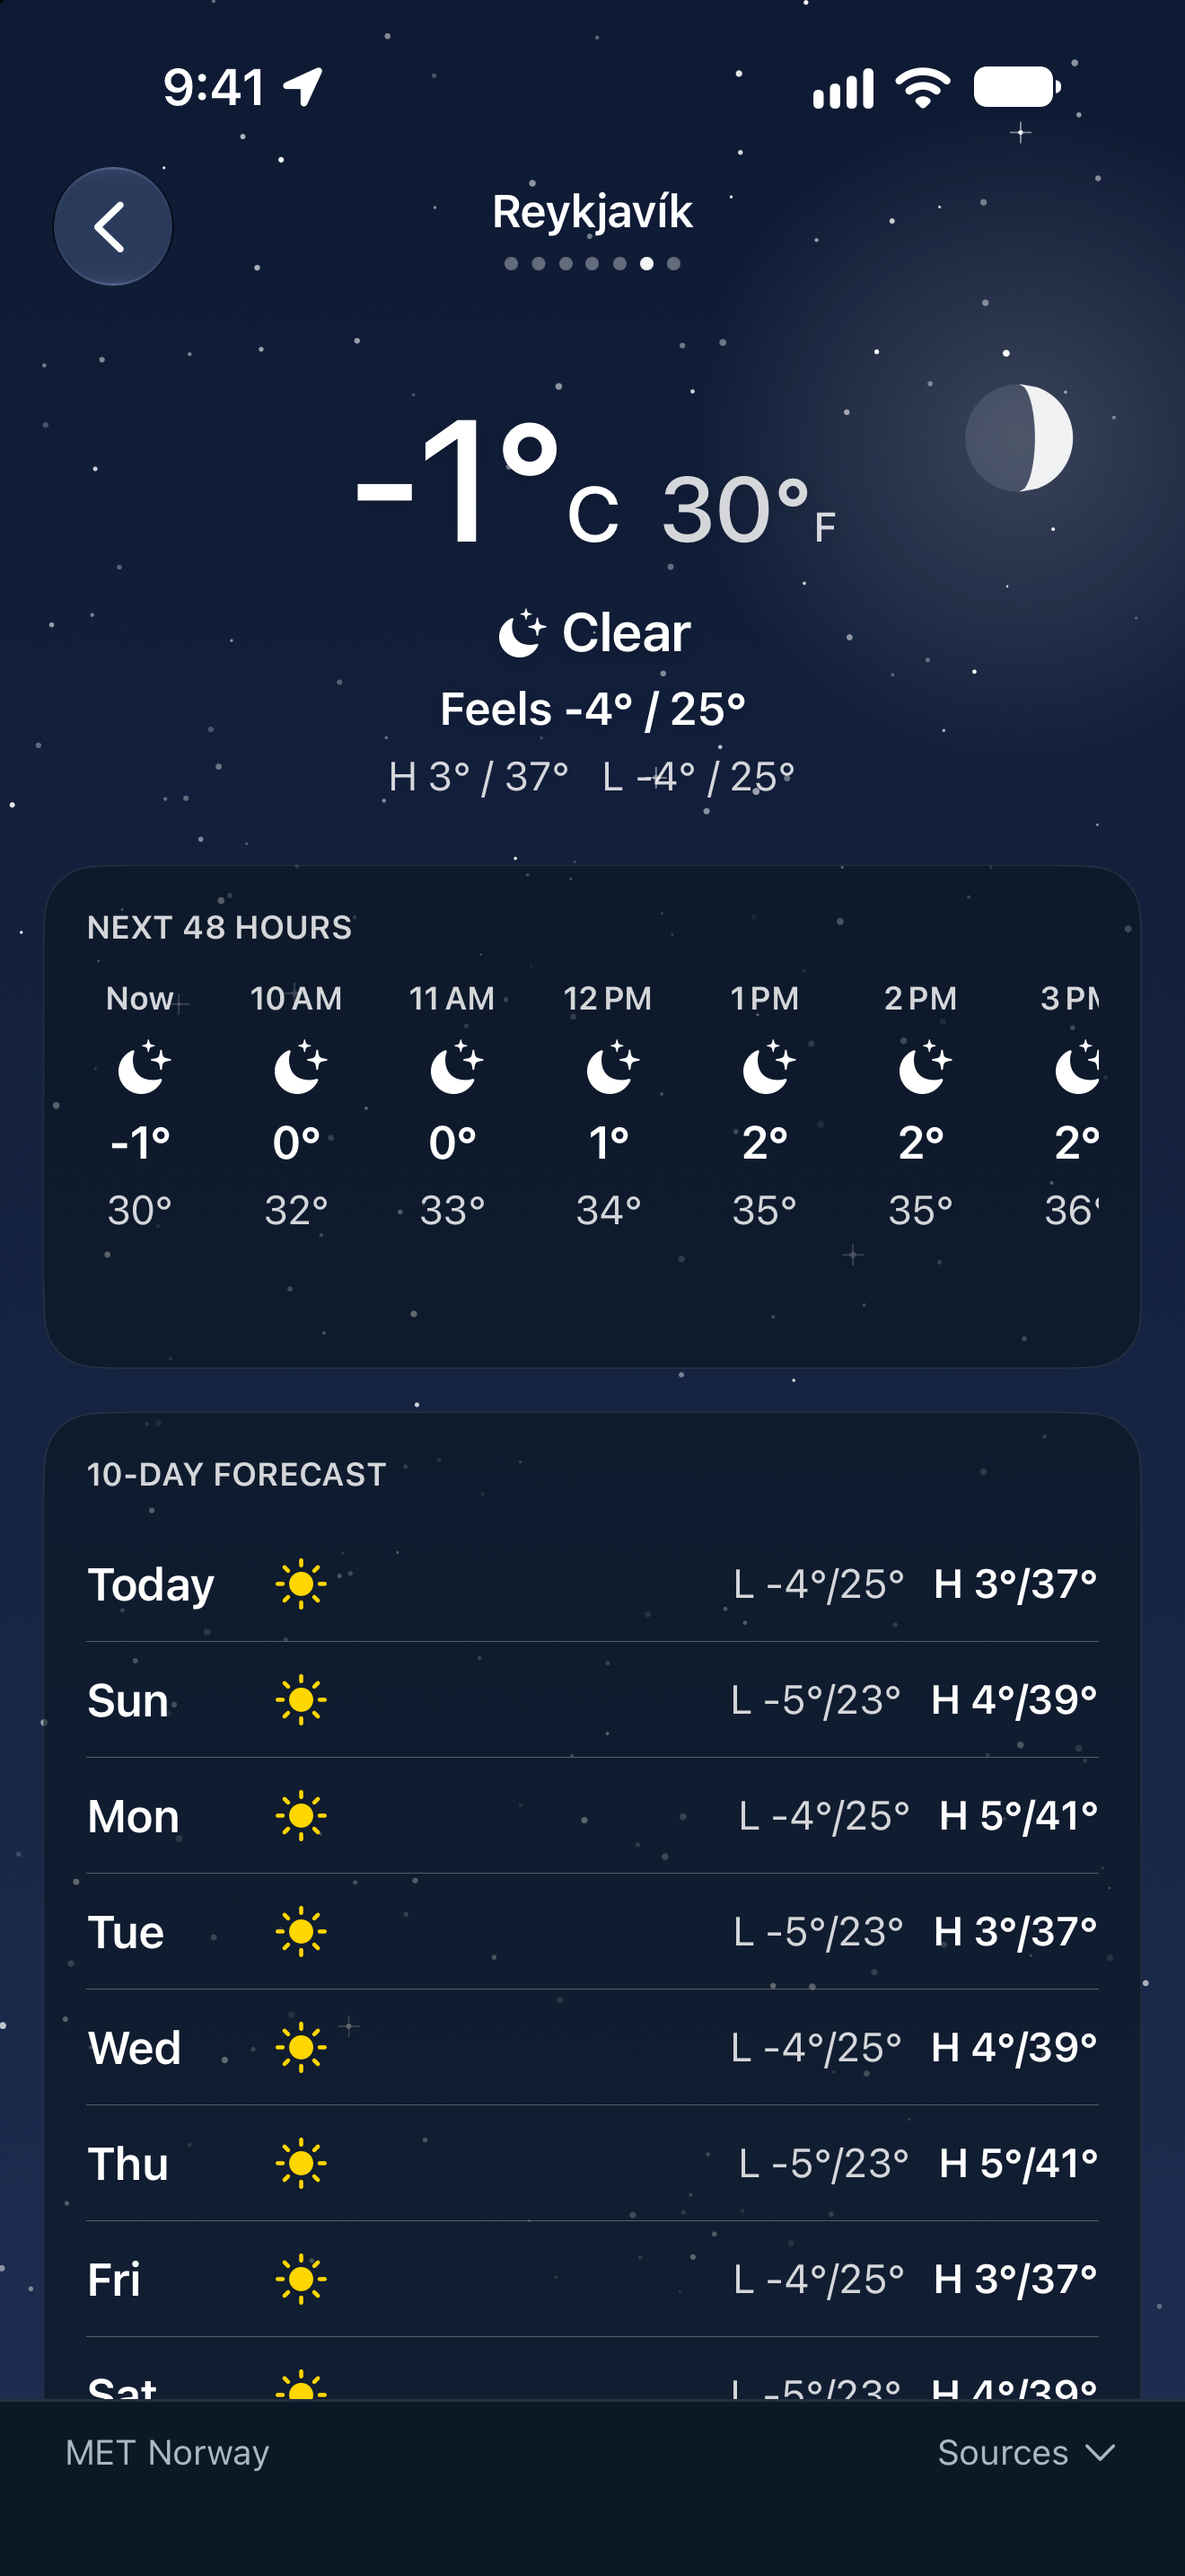
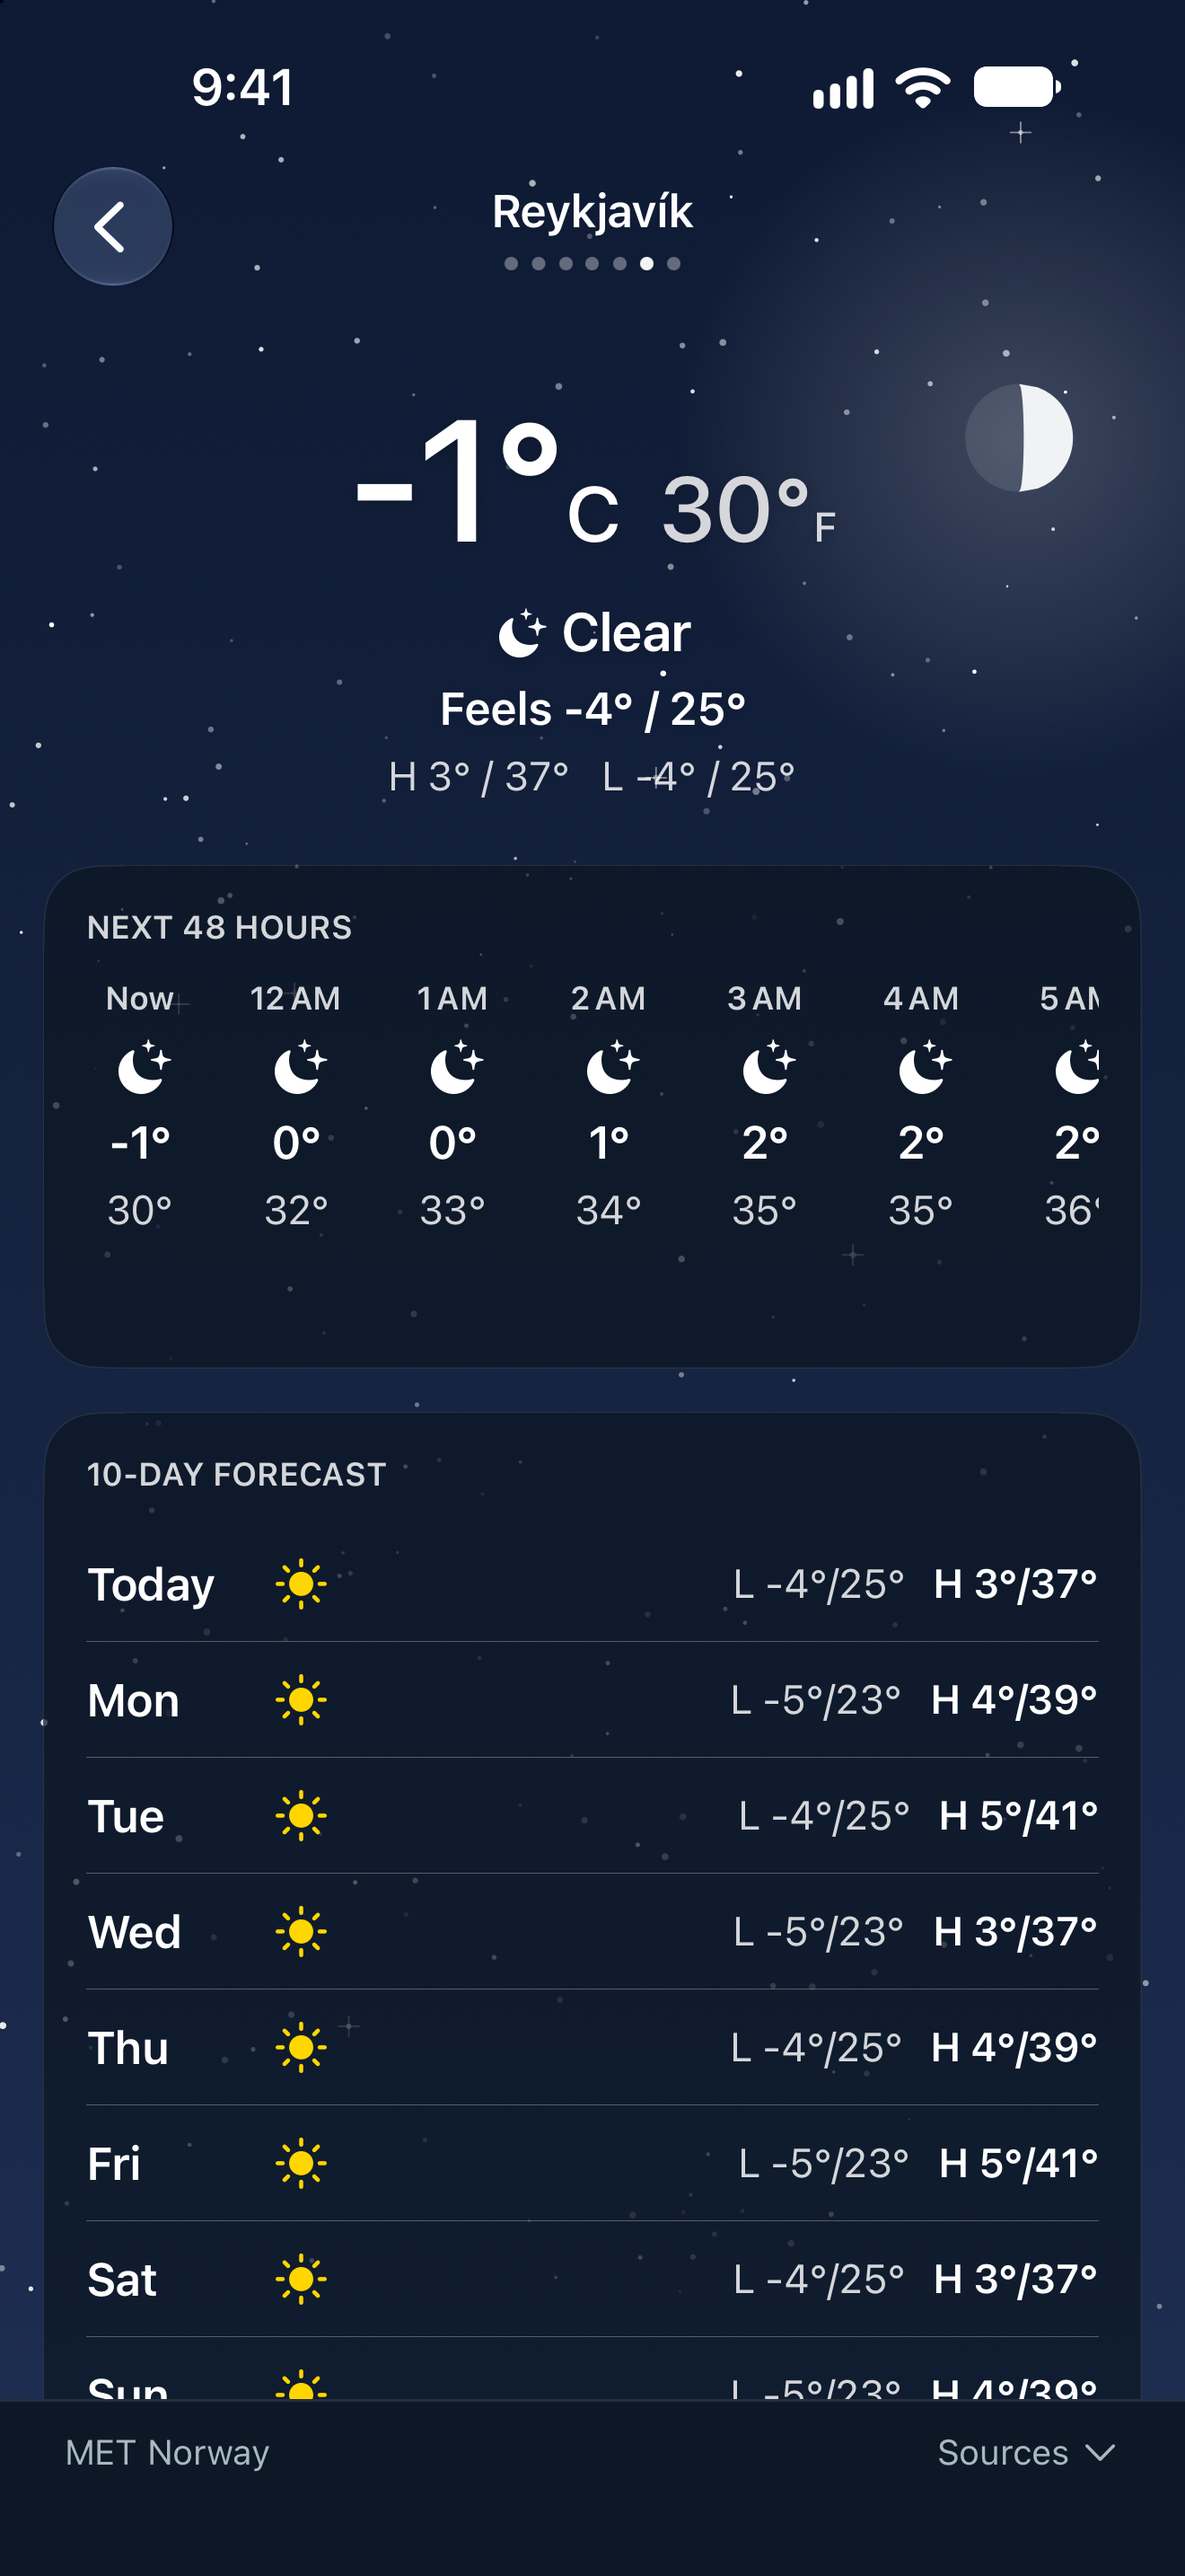
Retake the App Store screenshots (#5)
* Retake the App Store screenshots from the current build

Sun and moon no longer drawn together, the nights list on the northern lights card,
and the Edit button on the list. 6.9" (1320x2868), 9:41 with full signal and battery.

* Retake the screenshots with the hourly fix and no Dynamic Island

Captured with --mask=ignored, which keeps the island out of every shot; noted in CLAUDE.md.

---------

diff --git a/CLAUDE.md b/CLAUDE.md
@@ -5,7 +5,7 @@
 - WeatherKit, the App Group and widget location only work in a signed build on a device.
 - To install on a simulator, build without `CODE_SIGNING_ALLOWED=NO`: an unsigned build has no App Group entitlement, so the widget renders blank.
 - Proxy (`proxy/`, a Cloudflare Worker at api.trough.dev for MET and the aurora Kp files): `node --test proxy/test/proxy.test.mjs`. Merging to main deploys it via `.github/workflows/proxy.yml` (repo secret `CLOUDFLARE_API_TOKEN`, variable `CLOUDFLARE_ACCOUNT_ID`). Plain ES modules, no npm dependencies.
-- Screenshots (debug builds): launch with `-showsSampleSkies YES`, `-screenshotCities YES` for the list of real city names with chosen skies (`SampleSkies.cities`), `-openLocation sample.<id>` to open a place, and `-scrollAnchor 0.6` to start part way down (0 top, 1 bottom). App Store size is the 6.9" iPhone 18 Pro Max simulator (1320x2868); set `xcrun simctl status_bar <id> override --time 9:41` first.
+- Screenshots (debug builds): launch with `-showsSampleSkies YES`, `-screenshotCities YES` for the list of real city names with chosen skies (`SampleSkies.cities`), `-openLocation sample.<id>` to open a place, and `-scrollAnchor 0.6` to start part way down (0 top, 1 bottom). App Store size is the 6.9" iPhone 18 Pro Max simulator (1320x2868); set `xcrun simctl status_bar <id> override --time 9:41` first, and capture with `xcrun simctl io <id> screenshot --mask=ignored` so the Dynamic Island never shows.
 
 ## Gotchas
 - The Xcode project is hand-written with folder-synchronized groups: new files in `Duotemp/`, `DuotempWidgets/` or `Shared/` join their targets automatically. `Shared/` is in both the app and the widget extension. Each target's `Info.plist` is excluded from membership by an exception set.
